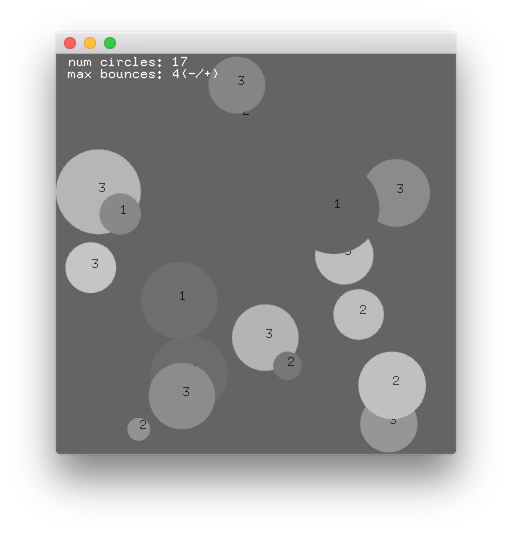
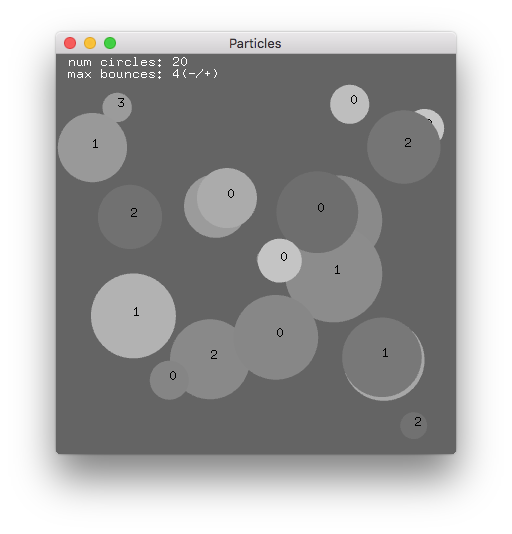
udpated OscEvents; set Particles window title; added screenshots

diff --git a/OscEvents/src/ofApp.cpp b/OscEvents/src/ofApp.cpp
@@ -1,3 +1,7 @@
+//
+// 2016 Dan Wilcox
+// EDP Creative Coding @ the University of Denver
+//
 #include "ofApp.h"
 
 //--------------------------------------------------------------
@@ -5,44 +9,87 @@ void ofApp::setup(){
 
 	ofSetFrameRate(30);
 	ofBackground(100);
+	ofSetWindowTitle("OscEvents");
+	ofSetCircleResolution(50);
+	
+	// no cursor please
+	ofHideCursor();
 
+	// display font for recieved key values
+	font.load(OF_TTF_MONO, 60);
+
+	// listen for OSC messages on port 9001
 	receiver.setup(9001);
-	sender.setup("localhost", 9001);
+	
+	// send OSC messages to localhost (aka the same computer) on port 9001
+	//sender.setup("localhost", 9001);
+	
+	// send OSC messages to another computer on port 9001
+	// replace the IP address below wirth the IP address to the computer
+	// you want to send to
+	sender.setup("192.168.0.100", 9001);
 }
 
 //--------------------------------------------------------------
 void ofApp::update(){
 
+	// process any waiting messages in the OSC receiever
 	if(receiver.hasWaitingMessages()) {
-		ofxOscMessage message;
-		if(receiver.getNextMessage(message)) {
 		
-			ofLog() << "received OSC to: " << message.getAddress() << " with # args: " << message.getNumArgs();
+		// our temp message
+		ofxOscMessage message;
+		
+		// load the temp message
+		while(receiver.getNextMessage(message)) {
+		
+			// process the message
+			ofLog() << "received OSC to: " << message.getAddress()
+			        << " with # args: " << message.getNumArgs();
 			
+			// mouse events
 			if(message.getAddress() == "/mouse/pressed") {
-				int x = 0, y = 0;
+				// check each type before grabbing the data,
+				// this is the *safe* way in case you're not sure
+				// the type of data you may be getting
 				if(message.getArgType(0) == OFXOSC_TYPE_INT32) {
-					x = message.getArgAsInt(0);
+					mousePos.x = message.getArgAsInt(0);
 				}
 				if(message.getArgType(1) == OFXOSC_TYPE_INT32) {
-					y = message.getArgAsInt(1);
+					mousePos.y = message.getArgAsInt(1);
 				}
-				ofLog() << "/mouse/pressed " << x << " " << y;
+				buttonDown = true;
+				ofLog() << "pressed " << mousePos.x << " " << mousePos.y;
 			}
-			
 			else if(message.getAddress() == "/mouse/moved") {
-				int x = 0, y = 0;
-				x = message.getArgAsInt(0);
-				y = message.getArgAsInt(1);
-				ofLog() << "/mouse/moved " << x << " " << y;
+				// assume the data types, faster but not as safe
+				mousePos.x = message.getArgAsInt(0);
+				mousePos.y = message.getArgAsInt(1);
+				ofLog() << "moved " << mousePos.x << " " << mousePos.y;
+			}
+			else if(message.getAddress() == "/mouse/dragged") {
+				mousePos.x = message.getArgAsInt(0);
+				mousePos.y = message.getArgAsInt(1);
+				ofLog() << "dragged " << mousePos.x << " " << mousePos.y;
+			}
+			else if(message.getAddress() == "/mouse/released") {
+				mousePos.x = message.getArgAsInt(0);
+				mousePos.y = message.getArgAsInt(1);
+				buttonDown = false;
+				ofLog() << "released " << mousePos.x << " " << mousePos.y;
 			}
 			
+			// keyboard
 			else if(message.getAddress() == "/key/pressed") {
-				char key = ' ';
 				if(message.getArgType(0) == OFXOSC_TYPE_INT32) {
 					key = message.getArgAsInt(0);
 				}
-				ofLog() << "/key/pressed " << key;
+				ofLog() << "key pressed " << key;
+			}
+			else if(message.getAddress() == "/key/released") {
+				if(message.getArgType(0) == OFXOSC_TYPE_INT32) {
+					key = message.getArgAsInt(0);
+				}
+				ofLog() << "key released " << key;
 			}
 		}
 	}
@@ -52,6 +99,24 @@ void ofApp::update(){
 //--------------------------------------------------------------
 void ofApp::draw(){
 
+	// draw larger background circle if the mouse button is down
+	if(buttonDown) {
+		ofSetColor(255);
+		ofDrawCircle(mousePos, 100);
+	}
+	
+	// draw the current mouse position
+	ofSetColor(200);
+	ofDrawCircle(mousePos, 50);
+	
+	// draw the current key
+	ofEnableAlphaBlending();
+	ofSetColor(220, 120, 120, 200);
+	string s;
+	s += (char)key;
+	ofRectangle bbox = font.getStringBoundingBox(s, 0, 0);
+	font.drawString(s, ofGetWidth()/2 - bbox.width/2, ofGetHeight()/2);
+	ofDisableAlphaBlending();
 }
 
 //--------------------------------------------------------------
@@ -64,7 +129,10 @@ void ofApp::keyPressed(int key){
 
 //--------------------------------------------------------------
 void ofApp::keyReleased(int key){
-
+	ofxOscMessage message;
+	message.setAddress("/key/released");
+	message.addInt32Arg(key);
+	sender.sendMessage(message);
 }
 
 //--------------------------------------------------------------
@@ -78,7 +146,11 @@ void ofApp::mouseMoved(int x, int y ){
 
 //--------------------------------------------------------------
 void ofApp::mouseDragged(int x, int y, int button){
-
+	ofxOscMessage message;
+	message.setAddress("/mouse/dragged");
+	message.addInt32Arg(x);
+	message.addInt32Arg(y);
+	sender.sendMessage(message);
 }
 
 //--------------------------------------------------------------
@@ -92,30 +164,9 @@ void ofApp::mousePressed(int x, int y, int button){
 
 //--------------------------------------------------------------
 void ofApp::mouseReleased(int x, int y, int button){
-
-}
-
-//--------------------------------------------------------------
-void ofApp::mouseEntered(int x, int y){
-
-}
-
-//--------------------------------------------------------------
-void ofApp::mouseExited(int x, int y){
-
-}
-
-//--------------------------------------------------------------
-void ofApp::windowResized(int w, int h){
-
-}
-
-//--------------------------------------------------------------
-void ofApp::gotMessage(ofMessage msg){
-
-}
-
-//--------------------------------------------------------------
-void ofApp::dragEvent(ofDragInfo dragInfo){ 
-
+	ofxOscMessage message;
+	message.setAddress("/mouse/released");
+	message.addInt32Arg(x);
+	message.addInt32Arg(y);
+	sender.sendMessage(message);
 }

diff --git a/OscEvents/src/ofApp.h b/OscEvents/src/ofApp.h
@@ -1,3 +1,10 @@
+//
+// OscEvents: Send & receive mouse & keyboard events over
+// OSC (Open Sound Control. Requires the ofxOsc addon.
+//
+// 2016 Dan Wilcox
+// EDP Creative Coding @ the University of Denver
+//
 #pragma once
 
 #include "ofMain.h"
@@ -17,12 +24,14 @@ class ofApp : public ofBaseApp{
 		void mouseDragged(int x, int y, int button);
 		void mousePressed(int x, int y, int button);
 		void mouseReleased(int x, int y, int button);
-		void mouseEntered(int x, int y);
-		void mouseExited(int x, int y);
-		void windowResized(int w, int h);
-		void dragEvent(ofDragInfo dragInfo);
-		void gotMessage(ofMessage msg);
 	
 		ofxOscReceiver receiver;
 		ofxOscSender sender;
+	
+		ofTrueTypeFont font;
+	
+		// received data from OSC
+		ofPoint mousePos;
+		bool buttonDown;
+		int key;
 };

diff --git a/OscEvents/src/main.cpp b/OscEvents/src/main.cpp
@@ -1,13 +1,13 @@
+//
+// 2016 Dan Wilcox
+// EDP Creative Coding @ the University of Denver
+//
 #include "ofMain.h"
 #include "ofApp.h"
 
-//========================================================================
-int main( ){
-	ofSetupOpenGL(1024,768,OF_WINDOW);			// <-------- setup the GL context
+int main(){
+	ofSetupOpenGL(400, 400, OF_WINDOW);
 
-	// this kicks off the running of my app
-	// can be OF_WINDOW or OF_FULLSCREEN
-	// pass in width and height too:
 	ofRunApp(new ofApp());
 
 }

diff --git a/Particles/src/ofApp.h b/Particles/src/ofApp.h
@@ -4,6 +4,9 @@
 // Circles are removed once they have reached the max number of bounces off
 // the window edges.
 //
+// 2016 Dan Wilcox
+// EDP Creative Coding @ the University of Denver
+//
 // References:
 //  * Stanford CS Pointer Basics: http://cslibrary.stanford.edu/106
 //  * ofBook: OOPS!: http://openframeworks.cc/ofBook/chapters/OOPs!.html

diff --git a/Particles/src/ofApp.cpp b/Particles/src/ofApp.cpp
@@ -9,6 +9,7 @@ void ofApp::setup(){
 
     ofSetFrameRate(30);
     ofBackground(100);
+	ofSetWindowTitle("Particles");
     ofSetCircleResolution(50);
     
     // Create our circleS.

diff --git a/README.md b/README.md
@@ -59,6 +59,12 @@ If everything went OK, you should now be able to open the generated project and 
 **Noise**: movement animation using Perlin noise
 
 <p align="center">
+<img src="https://raw.github.com/danomatika/CreativeCodingExamples/master/_screenshots/OscEvents.png"/>
+</p>
+
+**OscEvents**: send & receive mouse & keyboard events over OSC (Open Sound Control
+
+<p align="center">
 <img src="https://raw.github.com/danomatika/CreativeCodingExamples/master/_screenshots/Particles.png"/>
 </p>
 
